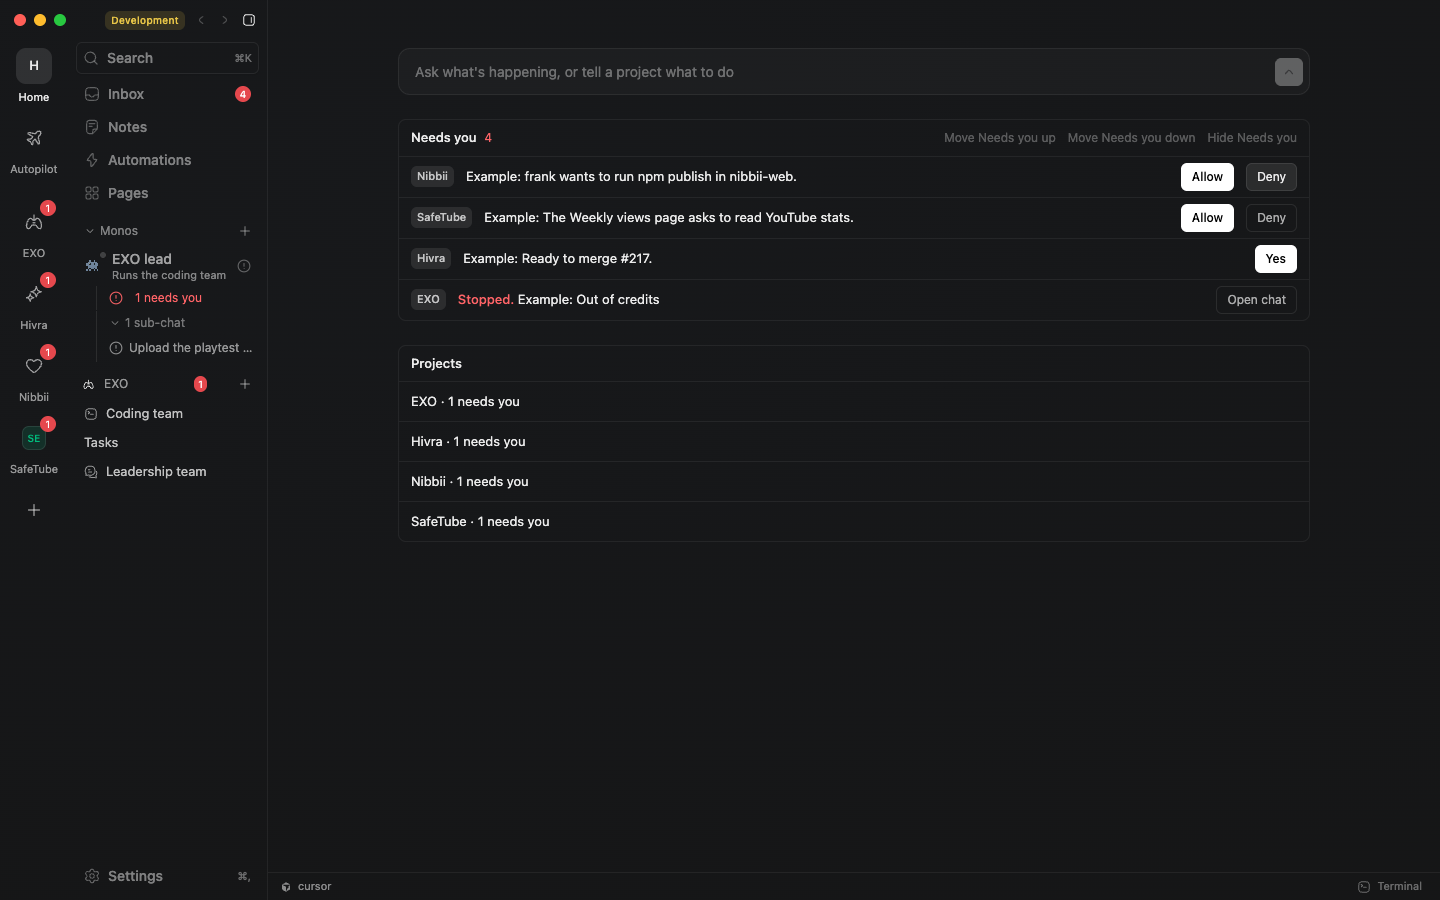
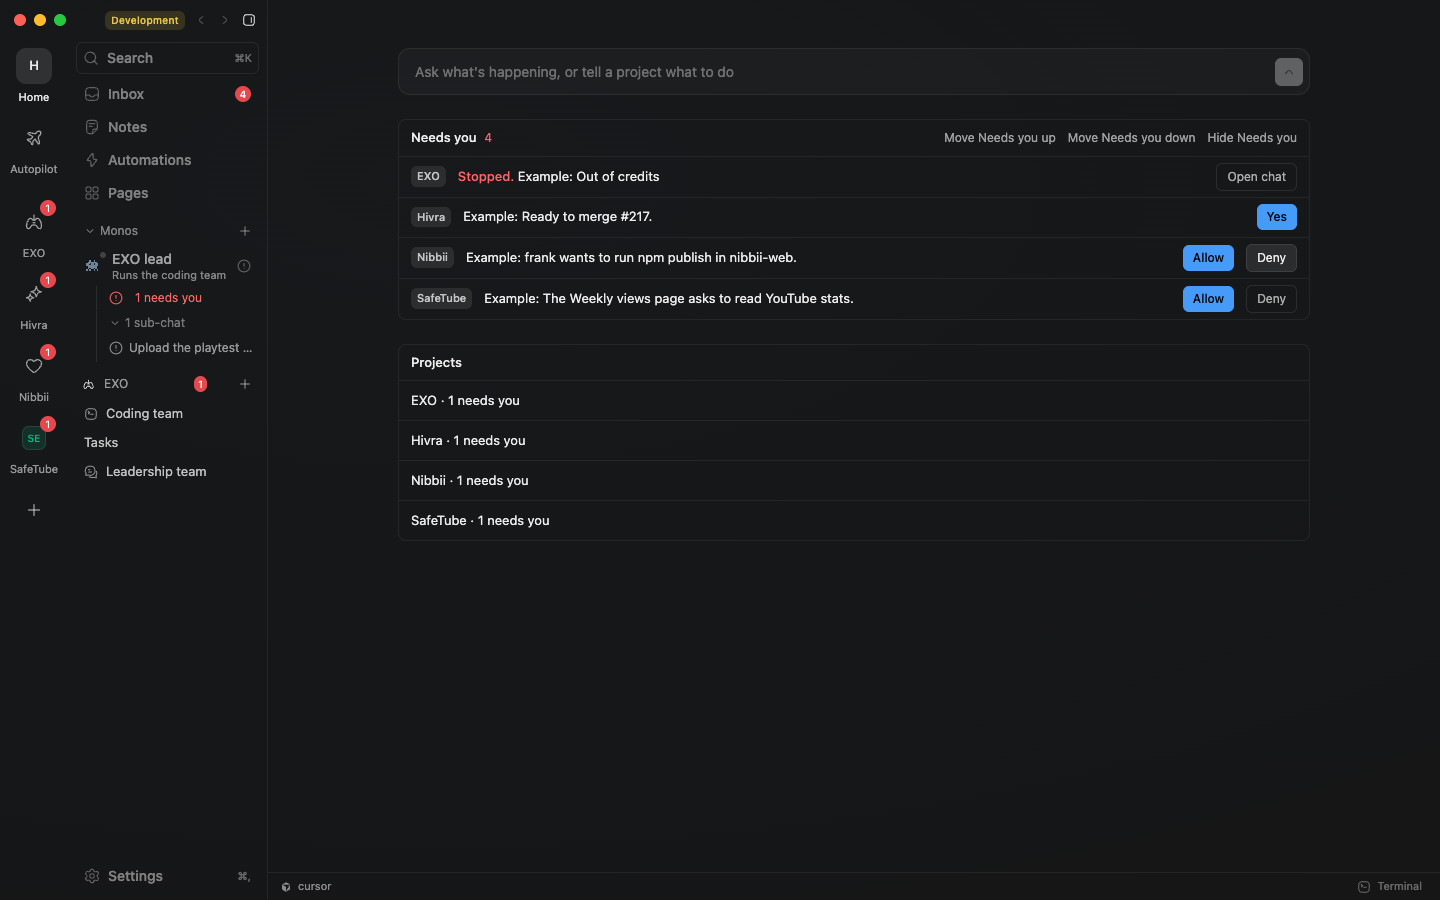
Use the blue primary on Needs you rows
Answer, Allow and Yes use the accent button. Open chat and the other actions stay bordered. The example question no longer reads as a stopped worker.

diff --git a/tests/browser/wp210-one-needs-list.spec.ts b/tests/browser/wp210-one-needs-list.spec.ts
@@ -147,7 +147,7 @@ test("rail, home, header, mono line and inbox share one Needs you list", async (
     localStorage.setItem("monocode:ready-pages-seeded-v2", "1");
     localStorage.setItem("monocode:dev-decisions", JSON.stringify(decisions));
   }, [
-    decision("hivra", "windows-build", "The Windows build stopped after 3 tries.", NOW - 50_000),
+    decision("hivra", "windows-build", "Which Windows build should ship?", NOW - 50_000),
     decision("hivra", "merge-217", "Ready to merge #217.", NOW - 40_000),
     decision("nibbii", "npm-publish", "frank wants to run npm publish in nibbii-web.", NOW - 20_000),
     decision("safetube", "weekly-views", "The Weekly views page asks to read YouTube stats.", NOW - 10_000),
@@ -189,14 +189,36 @@ test("rail, home, header, mono line and inbox share one Needs you list", async (
   const title = needs.locator("h2");
   expect(await title.evaluate((el) => el.nextElementSibling?.getAttribute("data-home-needs-count") ?? "")).toBe("5");
   const stopped = needs.locator("[data-home-line='stopped']");
+  await expect(stopped).toHaveCount(1);
+  await expect(needs.locator("[data-home-line]").first()).toHaveAttribute("data-home-line", "stopped");
+  const order = (await needs.innerText()).replace(/\s+/g, " ");
+  const stoppedAt = order.indexOf("Stopped.");
+  const mergeAt = order.indexOf("Ready to merge");
+  const askAt = order.indexOf("Which Windows build should ship?");
+  expect(stoppedAt).toBeGreaterThanOrEqual(0);
+  expect(mergeAt).toBeGreaterThan(stoppedAt);
+  expect(askAt).toBeGreaterThan(mergeAt);
   await expect(stopped.locator("[data-needs-chip]")).toHaveText("EXO");
   await expect(stopped.locator("[data-needs-stopped]")).toHaveText("Stopped.");
   await expect(stopped.locator("[data-needs-stopped]")).toHaveClass(/text-red-400/);
   const openChat = stopped.getByRole("button", { name: "Open chat" });
   expect(Number.parseFloat(await openChat.evaluate((el) => getComputedStyle(el).borderTopWidth))).toBeGreaterThan(0);
-  const answer = needs.locator("[data-needs-answer]").first();
-  await expect(answer).toHaveClass(/primary-action/);
+  await expect(openChat).not.toHaveClass(/bg-accent/);
+  const answer = needs.getByRole("button", { name: "Answer" });
+  await expect(answer).toHaveClass(/bg-accent/);
+  await expect(answer).not.toHaveClass(/primary-action/);
+  const paint = await answer.evaluate((el) => {
+    const probe = document.createElement("div");
+    probe.style.background = "var(--color-accent)";
+    document.body.append(probe);
+    const expected = getComputedStyle(probe).backgroundColor;
+    probe.remove();
+    return { got: getComputedStyle(el).backgroundColor, expected };
+  });
+  expect(paint.got).toBe(paint.expected);
+  expect(paint.got).not.toBe("rgb(255, 255, 255)");
   const deny = needs.getByRole("button", { name: "Deny" }).first();
+  await expect(deny).not.toHaveClass(/bg-accent/);
   await expect(deny).not.toHaveClass(/primary-action/);
   expect(Number.parseFloat(await deny.evaluate((el) => getComputedStyle(el).borderTopWidth))).toBeGreaterThan(0);
   const rowCount = await needs.locator("[data-home-line]").count();
@@ -241,9 +263,9 @@ test("rail, home, header, mono line and inbox share one Needs you list", async (
 
   await page.locator("[data-hub-home]").getByRole("button", { name: "Home" }).click({ force: true });
   await expect(page.locator("[data-home]")).toBeVisible();
-  await page.locator("[data-needs-project='hivra'] [data-needs-answer]").first().click();
+  await page.locator("[data-needs-project='hivra']").filter({ hasText: "Which Windows build should ship?" }).locator("[data-needs-answer]").click();
   await agree("4", "1");
-  await expect(page.locator("[data-home-section='needs-you']")).not.toContainText("The Windows build stopped after 3 tries.");
+  await expect(page.locator("[data-home-section='needs-you']")).not.toContainText("Which Windows build should ship?");
   await expect(page.locator("[data-home-section='projects']")).toContainText("Hivra · 1 needs you");
   await expect(page.locator("[data-home-section='projects']")).not.toContainText("Hivra · 2 need you");
   if (shoot) await page.screenshot({ path: `${AFTER}/answered.png` });

diff --git a/src/features/home/ui/homeScreen.test.ts b/src/features/home/ui/homeScreen.test.ts
@@ -232,6 +232,7 @@ it("shows a stopped worker as a chip, a red Stopped, the reason and a bordered O
   expect(button.className).toMatch(/\bborder\b/);
   expect(button.className).not.toMatch(/underline/);
   expect(button.className).not.toMatch(/primary-action/);
+  expect(button.className).not.toMatch(/\bbg-accent\b/);
   act(() => button.click());
   expect(opened).toBe(1);
 });
@@ -255,10 +256,14 @@ it("draws row actions as buttons, the first filled and the rest bordered, at mos
     ["Allow", "Deny", "Later", "Skip"].includes(item.textContent ?? ""),
   );
   expect(buttons.map((item) => item.textContent)).toEqual(["Allow", "Deny", "Later"]);
-  expect(buttons[0]?.className).toMatch(/primary-action/);
+  // The same blue primary Home uses for a chief reply. Not the white primary-action fill.
+  expect(buttons[0]?.className).toMatch(/\bbg-accent\b/);
+  expect(buttons[0]?.className).toMatch(/\btext-black\b/);
+  expect(buttons[0]?.className).not.toMatch(/primary-action/);
   expect(buttons[0]?.className).not.toMatch(/underline/);
   expect(buttons[1]?.className).toMatch(/\bborder\b/);
   expect(buttons[1]?.className).not.toMatch(/primary-action/);
+  expect(buttons[1]?.className).not.toMatch(/\bbg-accent\b/);
   expect(buttons[2]?.className).toMatch(/\bborder\b/);
   act(() => buttons[1]?.click());
   expect(ran).toEqual(["Deny"]);

diff --git a/src/features/home/ui/HomeScreen.tsx b/src/features/home/ui/HomeScreen.tsx
@@ -37,6 +37,9 @@ function noteLine(note: HomeNote): HomeLine {
 
 const ROW_ACTIONS = 3;
 
+// Blue primary (bg-accent, black text). Not the white primary-action fill.
+const PRIMARY_BUTTON = "shrink-0 rounded-md bg-accent px-2.5 py-1 text-[12px] font-medium text-black";
+
 function NeedActions({ actions }: { actions: readonly { label: string; run: () => void }[] }) {
   return actions.slice(0, ROW_ACTIONS).map((action, index) => {
     const run = (event: { stopPropagation: () => void }) => {
@@ -50,7 +53,7 @@ function NeedActions({ actions }: { actions: readonly { label: string; run: () =
           key={action.label}
           type="button"
           data-needs-answer=""
-          className="primary-action shrink-0 rounded-md border border-transparent px-2.5 py-1 text-[12px] font-medium focus-visible:outline-2 focus-visible:outline-accent"
+          className={PRIMARY_BUTTON}
           onClick={run}
         >
           {action.label}
